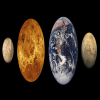
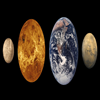
Raster Transform tests pass.

diff --git a/Kean.Tests/Draw/Raster/Transform.cs b/Kean.Tests/Draw/Raster/Transform.cs
@@ -24,6 +24,7 @@ using NUnit.Framework;
 
 using Target = Kean.Draw.Raster;
 using Geometry2D = Kean.Math.Geometry2D;
+using Geometry3D = Kean.Math.Geometry3D;
 namespace Kean.Draw.Raster.Test
 {
 	[TestFixture]
@@ -49,132 +50,147 @@ namespace Kean.Draw.Raster.Test
 				this.CutTranslate,
 				this.CoordinateSystems,
 				this.ResizeWithin,
-				this.ResizeTo
+				this.ResizeTo,
+				this.Draw3DTransform
 				);
 		}
 		[Test]
 		public void Different()
 		{
-			 using (Target.Image a = Target.Image.OpenResource("Correct/Transform/scaled.png"))
-			 using (Target.Image b = Target.Image.OpenResource("Correct/Transform/translated.png"))
+			using (Target.Image a = Target.Image.OpenResource("Draw/Raster/Correct/Transform/scaled.png"))
+			using (Target.Image b = Target.Image.OpenResource("Draw/Raster/Correct/Transform/translated.png"))
 				Verify(a.Distance(b), Is.GreaterThan(50));
 		}
 		#region Shift
 		[Test]
 		public void ShiftMonochrome()
 		{
-			using(Target.Monochrome image = Target.Monochrome.OpenResource("Correct/Transform/original.png"))
+			using (Target.Monochrome image = Target.Monochrome.OpenResource("Draw/Raster/Correct/Transform/original.png"))
 			using (Target.Monochrome shifted = image.Shift(new Kean.Math.Geometry2D.Integer.Size(51, -131)) as Target.Monochrome)
-				Verify(shifted, "Correct/Transform/shiftedMonochrome.png");
+				Verify(shifted, "Draw/Raster/Correct/Transform/shiftedMonochrome.png");
 		}
 		[Test]
 		public void ShiftBgr()
 		{
-			using (Target.Bgr image = Target.Bgr.OpenResource("Correct/Transform/original.png"))
+			using (Target.Bgr image = Target.Bgr.OpenResource("Draw/Raster/Correct/Transform/original.png"))
 			using (Target.Bgr shifted = image.Shift(new Kean.Math.Geometry2D.Integer.Size(51, -131)) as Target.Bgr)
-				Verify(shifted, "Correct/Transform/shiftedBgr.png");
+				Verify(shifted, "Draw/Raster/Correct/Transform/shiftedBgr.png");
 		}
 		[Test]
 		public void ShiftBgra()
 		{
-			using (Target.Bgra image = Target.Bgra.OpenResource("Correct/Transform/original.png"))
+			using (Target.Bgra image = Target.Bgra.OpenResource("Draw/Raster/Correct/Transform/original.png"))
 			using (Target.Bgra shifted = image.Shift(new Kean.Math.Geometry2D.Integer.Size(51, -131)) as Target.Bgra)
-				Verify(shifted, "Correct/Transform/shiftedBgra.png");
+				Verify(shifted, "Draw/Raster/Correct/Transform/shiftedBgra.png");
 		}
 		[Test]
 		public void ShiftYuyv()
 		{
-			using (Target.Yuyv image = Target.Yuyv.OpenResource("Correct/Transform/original.png"))
+			using (Target.Yuyv image = Target.Yuyv.OpenResource("Draw/Raster/Correct/Transform/original.png"))
 			using (Target.Yuyv shifted = image.Shift(new Kean.Math.Geometry2D.Integer.Size(51, -131)) as Target.Yuyv)
-				Verify(shifted, "Correct/Transform/shiftedYuyv.png");
+				Verify(shifted, "Draw/Raster/Correct/Transform/shiftedYuyv.png");
 		}
 		[Test]
 		public void ShiftYuv420()
 		{
-			using (Target.Yuv420 image = Target.Yuv420.OpenResource("Correct/Transform/original.png"))
+			using (Target.Yuv420 image = Target.Yuv420.OpenResource("Draw/Raster/Correct/Transform/original.png"))
 			using (Target.Yuv420 shifted = image.Shift(new Kean.Math.Geometry2D.Integer.Size(51, -131)) as Target.Yuv420)
-				Verify(shifted, "Correct/Transform/shiftedYuv420.png");
+				Verify(shifted, "Draw/Raster/Correct/Transform/shiftedYuv420.png");
 		}
 		[Test]
 		public void ShiftYvu420()
 		{
 
-			using (Target.Yvu420 image = Target.Yvu420.OpenResource("Correct/Transform/original.png"))
+			using (Target.Yvu420 image = Target.Yvu420.OpenResource("Draw/Raster/Correct/Transform/original.png"))
 			using (Target.Yvu420 shifted = image.Shift(new Kean.Math.Geometry2D.Integer.Size(51, -131)) as Target.Yvu420)
-				Verify(shifted, "Correct/Transform/shiftedYvu420.png");
+				Verify(shifted, "Draw/Raster/Correct/Transform/shiftedYvu420.png");
 		}
+
+		[Test]
+		public void Draw3DTransform()
+		{
+			using (Raster.Image first = Raster.Image.OpenResource("Draw/Raster/Correct/Transform/600x600b.png"))
+			{
+				//first.ProjectOn(Geometry3D.Single.Transform.CreateTranslation(0, 0, 150) * Geometry3D.Single.Transform.CreateRotationX(Math.Single.ToRadians(-35f)) * Geometry3D.Single.Transform.CreateRotationY(Math.Single.ToRadians(-25f)), new Geometry2D.Single.Size(Math.Single.ToRadians(60.8f), Math.Single.ToRadians(47.5f)));
+				//first.ProjectOn(Geometry3D.Single.Transform.CreateRotationX(Math.Single.ToRadians(30f)), new Geometry2D.Single.Size(Math.Single.ToRadians(100.8f), Math.Single.ToRadians(47.5f)));
+				first.ProjectOn(Geometry3D.Single.Transform.CreateTranslation(0, 0, 0), new Geometry2D.Single.Size(Math.Single.ToRadians(60.8f), Math.Single.ToRadians(47.5f)));
+				//first.ProjectOn(Geometry3D.Single.Transform.CreateTranslation(150, 0, 150)* Geometry3D.Single.Transform.CreateRotationX(Math.Single.ToRadians(30f)), new Geometry2D.Single.Size(Math.Single.ToRadians(100.8f), Math.Single.ToRadians(47.5f)));
+				Verify(first, "Draw/Raster/Correct/Transform/600x600b.png");
+			}
+		}
+
 		#endregion
 		#region  Cut, resize and copy
 		[Test]
 		public void CutRotate()
 		{
-			using (Target.Image image = Target.Image.OpenResource("Correct/Transform/original.png"))
+			using (Target.Image image = Target.Image.OpenResource("Draw/Raster/Correct/Transform/original.png"))
 			{
 				Geometry2D.Integer.Size size = new Geometry2D.Integer.Size(320, 100);
 				Geometry2D.Single.Transform transform = Geometry2D.Single.Transform.CreateRotation(Kean.Math.Single.ToRadians(75));
 				using (Target.Image copy = image.Copy(size, transform) as Target.Image)
-					Verify(copy, "Correct/Transform/rotated.png");
+					Verify(copy, "Draw/Raster/Correct/Transform/rotated.png");
 			}
 		}
 		[Test]
 		public void CutScale()
 		{
-			using (Target.Image image = Target.Image.OpenResource("Correct/Transform/original.png"))
+			using (Target.Image image = Target.Image.OpenResource("Draw/Raster/Correct/Transform/original.png"))
 			{
 				Geometry2D.Integer.Size size = new Geometry2D.Integer.Size(320, 240);
 				Geometry2D.Single.Transform transform = Geometry2D.Single.Transform.CreateScaling(1.5f);
 				using (Target.Bgra copy = image.Copy(size, transform).Convert<Target.Bgra>())
-					Verify(copy, "Correct/Transform/scaled.png");
+					Verify(copy, "Draw/Raster/Correct/Transform/scaled.png");
 			}
 		}
 		[Test]
 		public void CutTranslate()
 		{
-			using (Target.Image image = Target.Image.OpenResource("Correct/Transform/original.png"))
+			using (Target.Image image = Target.Image.OpenResource("Draw/Raster/Correct/Transform/original.png"))
 			{
 				Geometry2D.Integer.Size size = new Geometry2D.Integer.Size(320, 240);
 				using(Target.Image copy = image.Copy(size, Geometry2D.Single.Transform.CreateTranslation(100, 100)) as Target.Image)
-					Verify(copy, "Correct/Transform/translated.png");
+					Verify(copy, "Draw/Raster/Correct/Transform/translated.png");
 			}
 		}
 		[Test]
 		public void CoordinateSystems()
 		{
-			using(Target.Image source = Target.Image.OpenResource("Correct/Transform/original.png"))
+			using (Target.Image source = Target.Image.OpenResource("Draw/Raster/Correct/Transform/original.png"))
 			using (Target.Image image = new Target.Bgr(new Kean.Buffer.Sized(source.Pointer, source.Size.Area * 3), source.Size, CoordinateSystem.XLeftward | CoordinateSystem.YUpward))
 			{
 				Geometry2D.Integer.Size size = new Geometry2D.Integer.Size(320, 100);
 				Geometry2D.Single.Transform transform = Geometry2D.Single.Transform.CreateRotation(Kean.Math.Single.ToRadians(45));
 				using(Target.Image copy = image.Copy(size, transform) as Target.Image)
-					Verify(copy, "Correct/Transform/coordinateSystem.png");
+					Verify(copy, "Draw/Raster/Correct/Transform/coordinateSystem.png");
 			}
 		}
 		[Test]
 		public void ResizeWithin()
 		{
-			using (Target.Image first = Target.Image.OpenResource("Correct/Transform/original.png"))
+			using (Target.Image first = Target.Image.OpenResource("Draw/Raster/Correct/Transform/original.png"))
 			{
 				Geometry2D.Integer.Size size = new Geometry2D.Integer.Size(320, 100);
-				Verify(first.ResizeWithin(size).Convert<Raster.Bgra>(), "Correct/Transform/resized1.png");
+				Verify(first.ResizeWithin(size).Convert<Raster.Bgra>(), "Draw/Raster/Correct/Transform/resized1.png");
 			}
 		}
 		[Test]
 		public void ResizeTo()
 		{
-			using (Target.Image first = Target.Image.OpenResource("Correct/Transform/original.png"))
+			using (Target.Image first = Target.Image.OpenResource("Draw/Raster/Correct/Transform/original.png"))
 			{
 				Geometry2D.Integer.Size size = new Geometry2D.Integer.Size(100, 100);
-				Verify(first.ResizeTo(size).Convert<Raster.Bgra>(), "Correct/Transform/resized2.png");
+				Verify(first.ResizeTo(size).Convert<Raster.Bgra>(), "Draw/Raster/Correct/Transform/resized2.png");
 			}
 		}
 		[Test]
 		public void AspectRatio()
 		{
-			using (Target.Image first = Target.Image.OpenResource("Correct/Transform/original.png"))
+			using (Target.Image first = Target.Image.OpenResource("Draw/Raster/Correct/Transform/original.png"))
 			{
 				float ratio = 3f;
 				Target.Image second = first.Copy(new Geometry2D.Integer.Size(Kean.Math.Integer.Round((ratio != 0 ? ratio : 1) * first.Size.Height), first.Size.Height), Geometry2D.Single.Transform.CreateScaling(first.Size.Width / (float)first.Size.Height / (ratio != 0 ? ratio : 1), 1)) as Target.Image;
-				Verify(second, "Correct/Transform/aspect.png");
+				Verify(second, "Draw/Raster/Correct/Transform/aspect.png");
 			}
 		}
 		

diff --git a/Kean.Tests/Draw/Raster/All.cs b/Kean.Tests/Draw/Raster/All.cs
@@ -28,7 +28,7 @@ namespace Kean.Draw.Raster.Test
 		{
 			//Bgr.Test();
 			Bgra.Test ();
-			//Transform.Test ();
+			Transform.Test ();
 			Convert.Test ();
 		}
 	}
